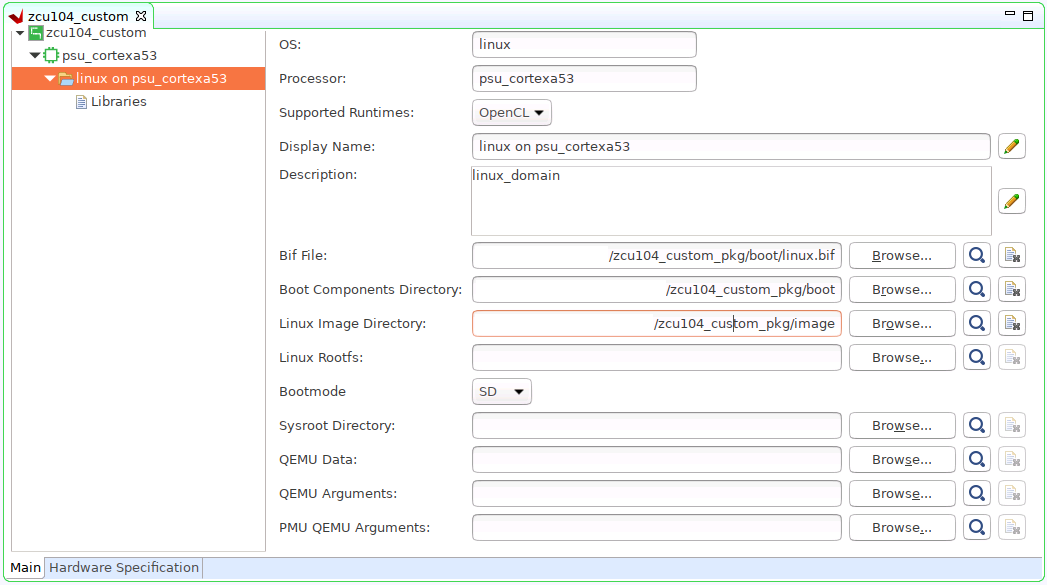
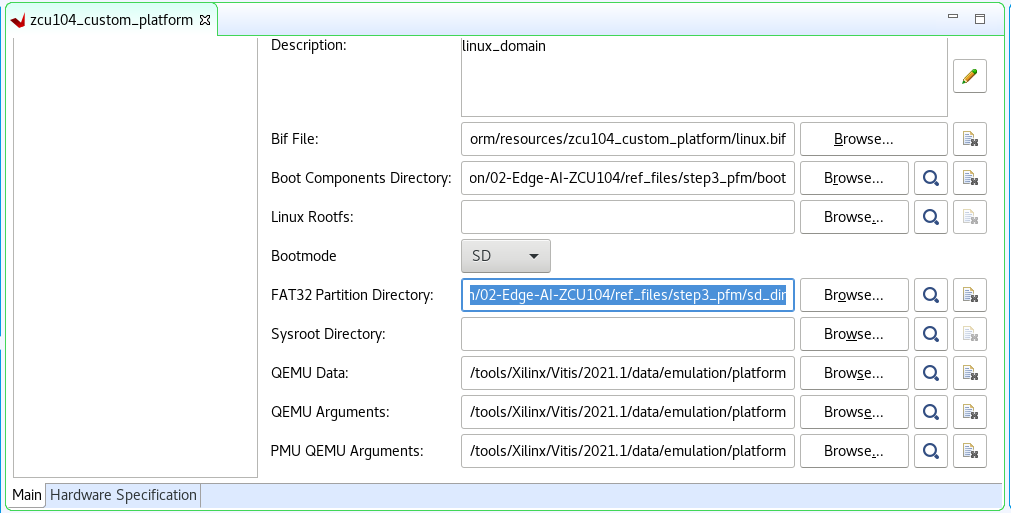
update till step 3

Changed region(s): [[0.0, 0.0, 1.0, 0.9981], [0.2453, 0.7173, 0.3986, 0.7485]]

diff --git a/Vitis_Platform_Creation/Introduction/02-Edge-AI-ZCU104/step3.md b/Vitis_Platform_Creation/Introduction/02-Edge-AI-ZCU104/step3.md
@@ -44,12 +44,12 @@
 
 
 
-3. Create `boot` directory and `image` directory inside pfm directory
+3. Create `boot` directory and `sd_dir` directory inside pfm directory
 
    ```bash
    cd zcu104_custom_pkg/pfm
    mkdir boot
-   mkdir image
+   mkdir sd_dir
    ```
    After this step, your directory hierarchy looks like this.
 
@@ -60,7 +60,7 @@
      - sysroots             # Extracted Sysroot Directory
      - pfm                  # Platform Packaging Sources
        - boot               # Platform boot components
-       - image              # Files to be put in FAT32 partition
+       - sd_dir             # Files to be put in FAT32 partition of SD card
    ```
 
    We'll prepare BIF file and the files it refers to into **boot** directory; we'll prepare all files needed for FAT32 partition to **image** directory.
@@ -87,7 +87,7 @@
    - The file names in `<>` are placeholders. Vitis will replace the placeholders with the relative path to platform during platform packaging. V++ packager, which runs when buiding the final application would expand it further to the full path during image packaging.
    - Filename placeholders point to the files in boot directory. The filenames in boot directory need to match with placeholders in BIF file.
    - `<bitstream>` is a reserved keyword. V++ packager will replace it with the final system bit file.
-   - It's a known issue that v++ packager only recognizes FSBL with `<fsbl.elf>`. So for MPSoC, it's needed to copy `zynqmp_fsbl.elf` that PetaLinux generates to `fsbl.elf` in image directory. This issue is fixed in 2020.2.
+   - It's a known issue that v++ packager only recognizes FSBL with `<fsbl.elf>`. So for MPSoC, it's needed to copy `zynqmp_fsbl.elf` that PetaLinux generates to `fsbl.elf` in sd_dir directory. This issue is fixed in 2020.2.
 
 5. Prepare for the boot components
 
@@ -108,10 +108,6 @@
 
      - boot.scr: script for u-boot initialization. 
      - system.dtb: the device tree blob that u-boot reads during boot to understand system setup.
-
-   Note:
-   
-   - In Vitis 2020.1, init.sh and platform_desc.txt in image directory are required by XRT to setup environment variables. They are not needed by XRT 2020.2.
 
 ### Create a Vitis Platform
 
@@ -143,9 +139,9 @@ First we create a Vitis platform project with the XSA file generated by Vivado f
 
    - Click the **linux on psu_cortexa53** domain, browse to the locations and select the directory or file needed to complete the dialog box for the following:
 
-   - **Bif file**: Browse to **zcu104_custom_pkg/pfm/boot/linux.bif** file and click OK.
+   - **Bif file**: Click the drop down icon and select **Generate BIF**.
    - **Boot Components Directory**: Browse to **zcu104_custom_pkg/pfm/boot** and click OK.
-   - **Linux Image Directory**: Browse to **zcu104_custom_pkg/pfm/image** and click OK.
+   - **FAT32 Partition Directory**: Browse to **zcu104_custom_pkg/pfm/sd_dir** and click OK.
 
    ![vitis_linux_config.png](./images/vitis_linux_config.png)
 

diff --git a/Vitis_Platform_Creation/Introduction/02-Edge-AI-ZCU104/step2.md b/Vitis_Platform_Creation/Introduction/02-Edge-AI-ZCU104/step2.md
@@ -194,6 +194,7 @@ Vitis-AI applications will install additional software packages. If user would l
 
    ![](./images/petalinux_image_packaging_configuration.png)
 
+<!--TODO: CMA change is needed. Other changes are not.-->
 2. Let Linux use EXT4 rootfs during boot
 
    The setting of which rootfs to use during boot is controlled by **bootargs**. We would change bootargs settings to allow Linux to boot from EXT4 partition. There are various ways to update bootargs. Please take either way below.
@@ -241,7 +242,6 @@ Vitis-AI applications will install additional software packages. If user would l
 
    The generated sysroot package **sdk.sh** will be located in <PetaLinux Project>linux/image directory. We'll extract it in next step.
 
-**Note: Now HW platform and SW platform are all generated. Next we would [package the Vitis Platform](step3.md).**
 
 ### Fast Track
 
@@ -262,5 +262,9 @@ Scripts are provided to re-create PetaLinux project and generate outputs. To use
    ```
 
 Note: The Fast Track scripts extracts the sysroot to <PetaLinux Project>/images/linux directory. It's different than the step-by-step instructions for the convenience of scripting.
+
+### Next Step
+
+Note: Now HW platform and SW platform are all generated. Next we would [package the Vitis Platform](step3.md).
 
 <p align="center"><sup>Copyright&copy; 2021 Xilinx</sup></p>

diff --git a/Vitis_Platform_Creation/Introduction/02-Edge-AI-ZCU104/step1.md b/Vitis_Platform_Creation/Introduction/02-Edge-AI-ZCU104/step1.md
@@ -318,7 +318,7 @@ When a component comes with multiple types of simulation models, selecting Syste
    write_hw_platform -force -file ./zcu104_custom_platform.xsa
    ```
 
-**Now we finish the Hardware platform creation flow, then we should go to the [Step2: Software platform creation](./step2.md)**
+
 
 ### Fast Track
 
@@ -337,5 +337,9 @@ Scripts are provided to re-create projects and generate outputs. To use these sc
    ```bash
    make clean
    ```
+
+### Next Step 
+
+Now we finish the Hardware platform creation flow, then we should go to the [Step2: Software platform creation](./step2.md)
 
 <p align="center"><sup>Copyright&copy; 2021 Xilinx</sup></p>
